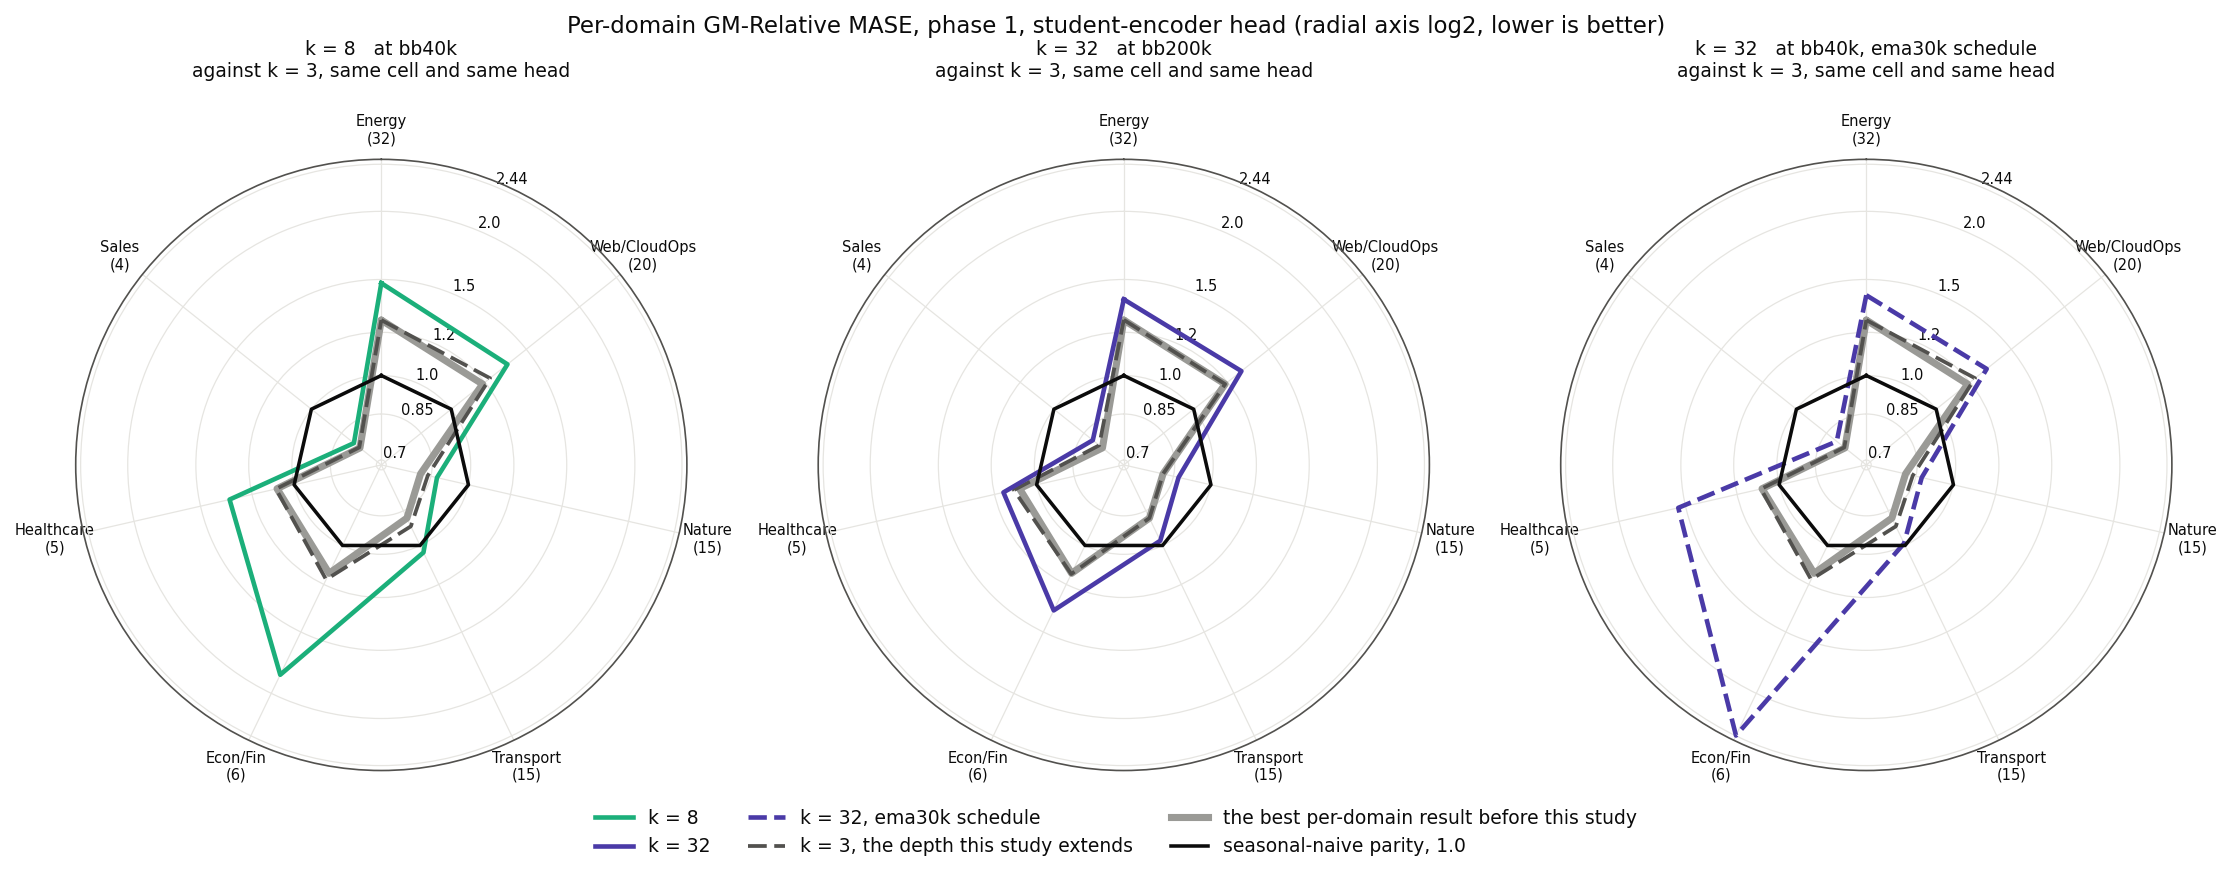
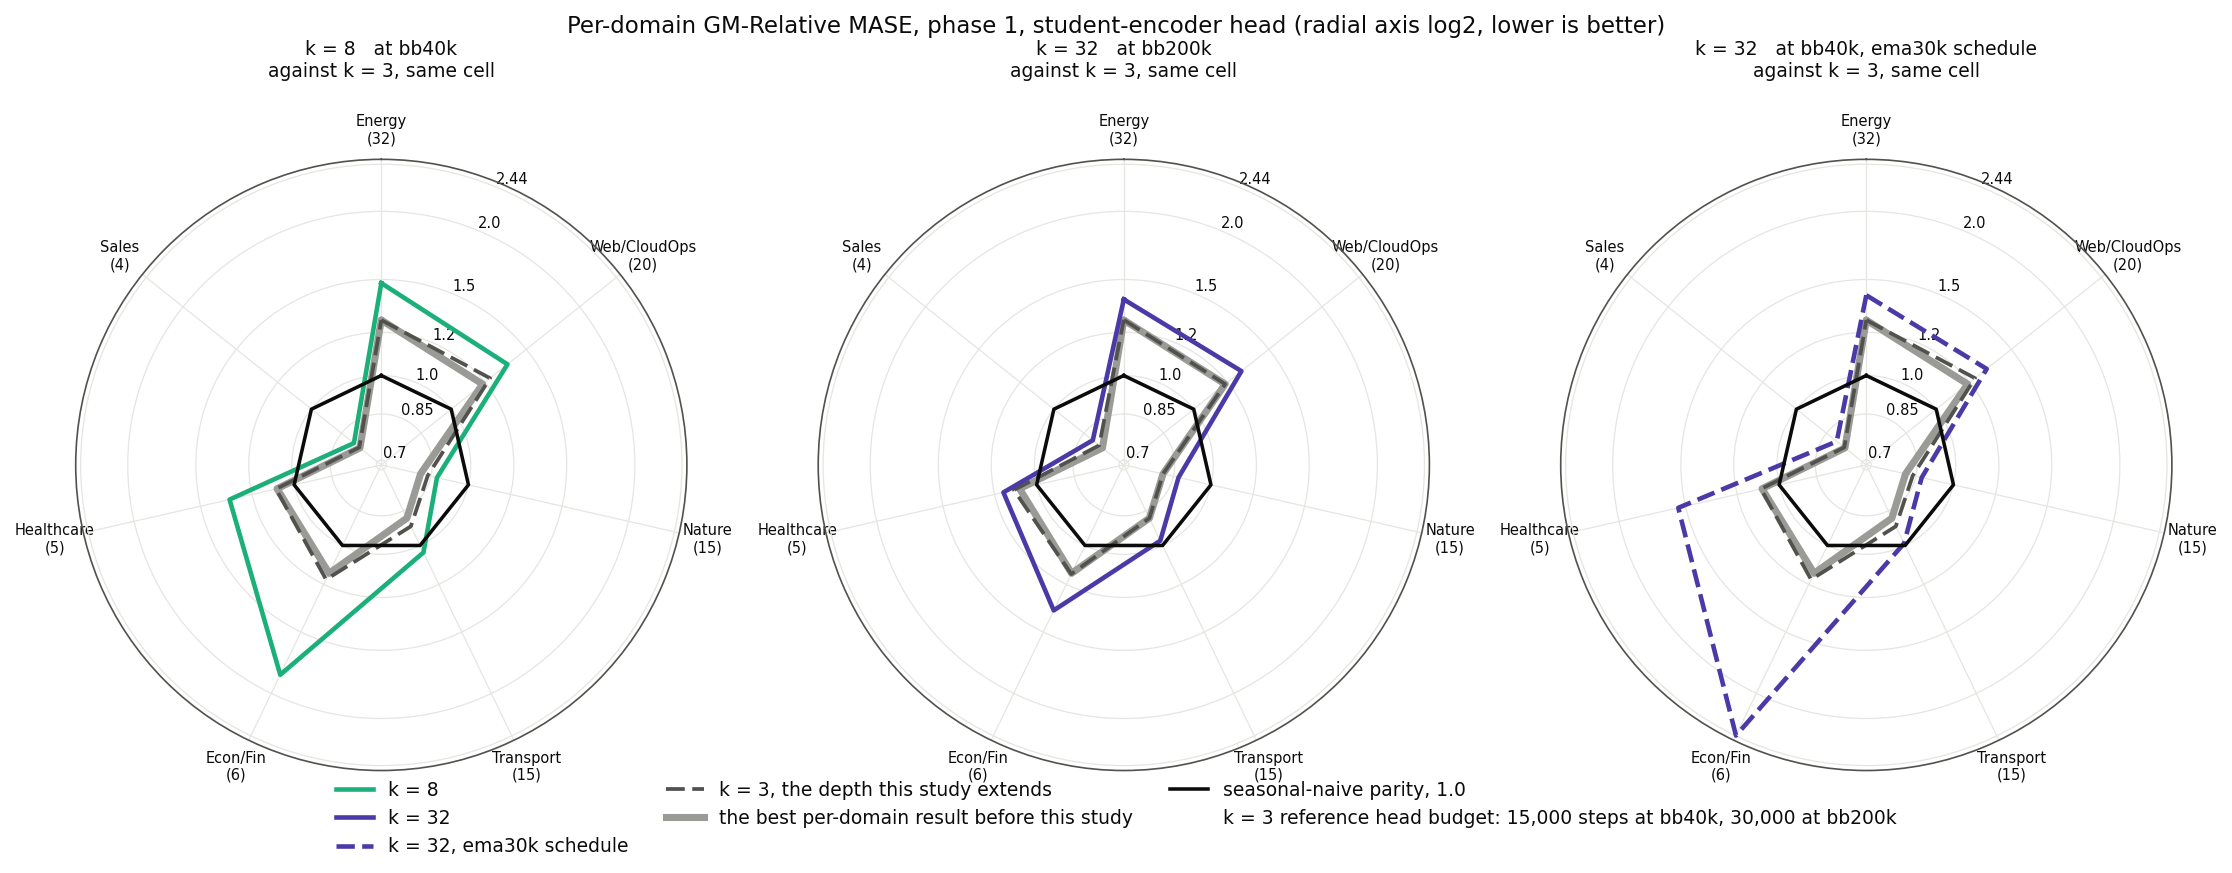
report(#401): the reference head is not this study's head at bb40k
`rollout_depth.md:858`: every bb40k head of that study trains 15,000 steps and
every bb100k and bb200k head trains 30,000. This study trains 30,000 at every
stop. So a bb40k comparison against that reference is NOT head-matched, and a
bb200k one is.

Four places claimed it was. The review named two:

  * the phase-1 table note, which said "same cell, same head, same eval" three
    lines above a note giving the reference head budget as 15,000 at bb40k.
  * the ladder's two reference legend labels, in the same legend as that note.

A grep found two more, in the per-domain radar, which the review did not open:
its panel titles claimed "same cell and same head" for every panel, and two of
the three phase-1 panels are bb40k. Its docstring said the same.

Every one now reads "same cell". The radar carries the reference head budget
in its legend, where the ladder already carries it.

The report's line 227 keeps "the same head" and is correct: it describes
bb200k, where both heads train 30,000 steps.

754 tests pass. STE lint clean.

Claude-Session: https://claude.ai/code/session_017ZyjWRedGjUN9qyu7EpDpU

diff --git a/reports/2026-08-15_rollout_depth_k16_8_32/scripts/plot_domain_radar.py b/reports/2026-08-15_rollout_depth_k16_8_32/scripts/plot_domain_radar.py
@@ -10,7 +10,8 @@ and this one can.
 One panel per depth this study trained. Each panel draws:
 
   solid   the depth, at the stop named in the panel title.
-  dashed  #373's k = 3 on the SAME cell, the same head and the same stop.
+  dashed  #373's k = 3 on the SAME cell and the same stop. Its head
+          budget is 15,000 steps at bb40k and 30,000 at bb100k and bb200k.
           The depth is the only thing that changes between the two polygons.
   grey    the best per-domain value any k = 3 run of #373 reached, over
           every (cell, stop) in its splits table. The per-domain form of the
@@ -52,6 +53,8 @@ import depth_colours as D                                 # noqa: E402
 plt.rcParams.update(D.rc())
 
 CELL = "A4"
+REF_HEAD_NOTE = ("k = 3 reference head budget: 15,000 steps at bb40k, "
+                 "30,000 at bb200k")
 HEAD = "student"
 
 
@@ -268,7 +271,7 @@ def main(argv=None):
 
         sched = "" if variant == "base" else f", {variant} schedule"
         ax.set_title(f"{D.label(k)}   at bb{steps_label(stop)}{sched}\n"
-                     f"against k = 3, same cell and same head", fontsize=9, pad=18)
+                     f"against k = 3, same cell", fontsize=9, pad=18)
 
     for idx in range(len(panels), nrow * ncol):
         axes[idx // ncol][idx % ncol].axis("off")
@@ -290,6 +293,13 @@ def main(argv=None):
         # already on the picture and needs no sentence here.
         Line2D([], [], color=D.PARITY_INK, lw=1.7,
                label="seasonal-naive parity, 1.0")]
+    # The k = 3 reference is NOT head-matched at every stop. `rollout_depth.md`
+    # line 858: every bb40k head of that study trains 15,000 steps and every
+    # bb100k and bb200k head trains 30,000. This study trains 30,000 at every
+    # stop, so a bb40k panel compares two head budgets and a bb200k panel does
+    # not. The panel title used to claim "same head" for all of them.
+    handles.append(Line2D([], [], color="none",
+                          label=REF_HEAD_NOTE))
     fig.legend(handles=handles, loc="lower center",
                ncol=min(3, len(handles)), frameon=False, fontsize=9)
     fig.suptitle(f"Per-domain GM-Relative MASE, phase {a.phase}, "

diff --git a/reports/2026-08-15_rollout_depth_k16_8_32/scripts/plot_depth_ladder.py b/reports/2026-08-15_rollout_depth_k16_8_32/scripts/plot_depth_ladder.py
@@ -400,11 +400,11 @@ def main(argv=None):
                        "(lower is better)")
     handles = [
         Line2D([], [], color=D.INK_SOFT, linestyle=D.STYLE_K3, lw=1.7,
-               label="k = 3, same cell and same head"),
+               label="k = 3, same cell"),
         Patch(facecolor=D.REF_K3_INK, alpha=0.14, lw=0,
               label=f"head-seed band ±{HEAD_SEED_BAND:.4f}"),
         Line2D([], [], color=D.REF_K0_INK, linestyle=D.STYLE_K0, lw=1.7,
-               label="k = 0 published, same cell and same head"),
+               label="k = 0 published, same cell"),
         Line2D([], [], color=D.PRIOR_INK, lw=2.0,
                label=f"the best this cell reached before this study, "
                      f"{frontier:.4f}")]

diff --git a/reports/2026-08-15_rollout_depth_k16_8_32/results/mean/arm_compare.md b/reports/2026-08-15_rollout_depth_k16_8_32/results/mean/arm_compare.md
@@ -9,9 +9,9 @@
 | 1 | k = 32 | base | 40,000 | 30,000 | 7.9575 | 1.2082 | -6.7493 | mean |
 | 1 | k = 32 | ema30k | 40,000 | 30,000 | - | 1.2385 | - | - |
 | 1 | k = 32 | base | 100,000 | 30,000 | 1.7939 | 1.1803 | -0.6136 | mean |
+| 1 | k = 32 | base | 200,000 | 30,000 | - | 1.1637 | - | - |
 | 1 | k = 32 | base | 200,000 | 30,000 | - | 1.1676 | - | - |
 | 1 | k = 32 | base | 200,000 | 30,000 | - | 1.1576 | - | - |
-| 1 | k = 32 | base | 200,000 | 30,000 | - | 1.1637 | - | - |
 | 1 | k = 0 | parent | 100,000 | 30,000 | - | 1.1945 | - | - |
 | 2 | k = 8 | base | 40,000 | 40,000 | - | 1.2543 | - | - |
 | 2 | k = 8 | base | 100,000 | 100,000 | - | 1.3270 | - | - |

diff --git a/reports/2026-08-15_rollout_depth_k16_8_32/rollout_depth_k16_8_32.md b/reports/2026-08-15_rollout_depth_k16_8_32/rollout_depth_k16_8_32.md
@@ -146,7 +146,7 @@ head-seed band.
 *GM-Relative MASE over the 97 GIFT-Eval configs. Lower is better. The k = 3
 column reads the score files of
 [`rollout_depth.md`](../2026-08-08_rollout_depth/rollout_depth.md), same cell,
-same head, same eval. The k = 0 published column reads
+same eval. The k = 0 published column reads
 [`published.py`](../2026-08-08_rollout_depth/scripts/published.py). Both
 columns carry that study's head budget: 15,000 steps at bb40k and 30,000 at
 bb100k and bb200k.*
